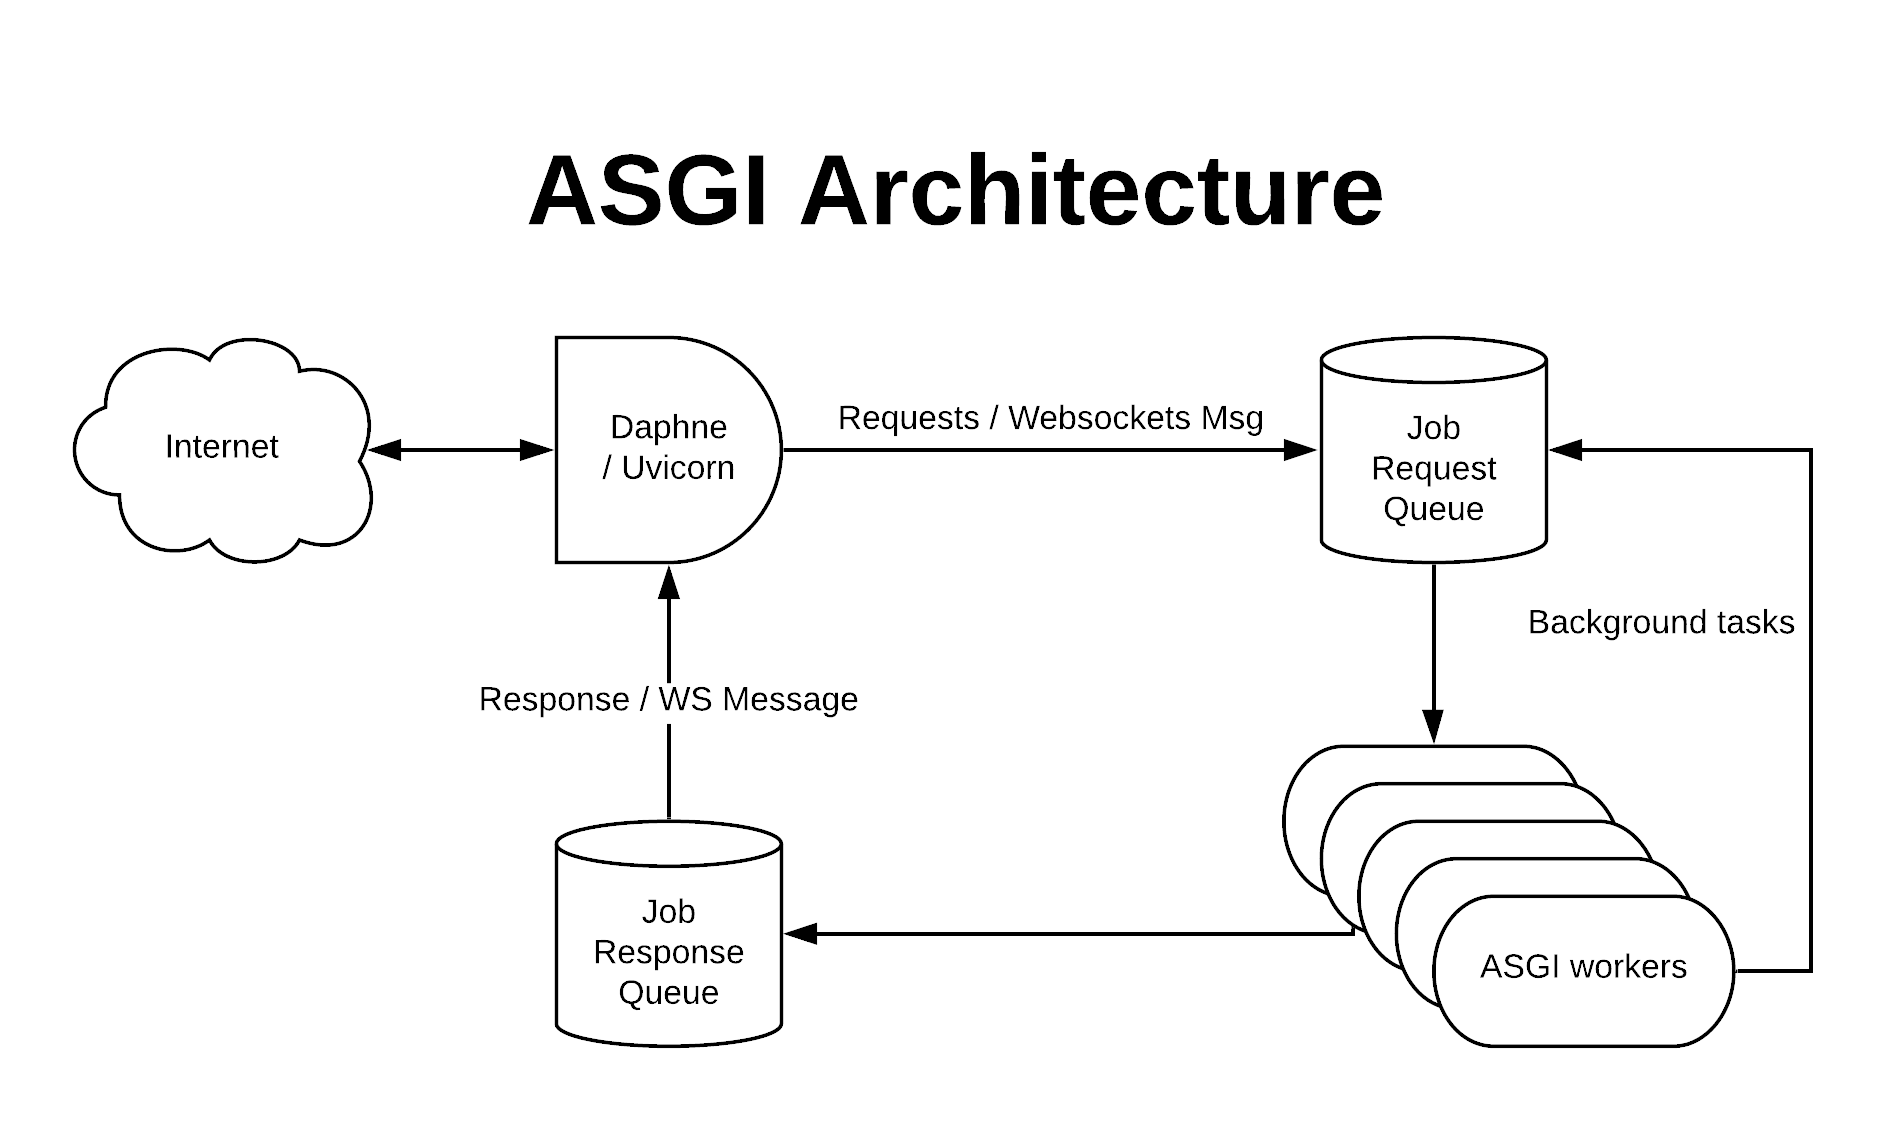
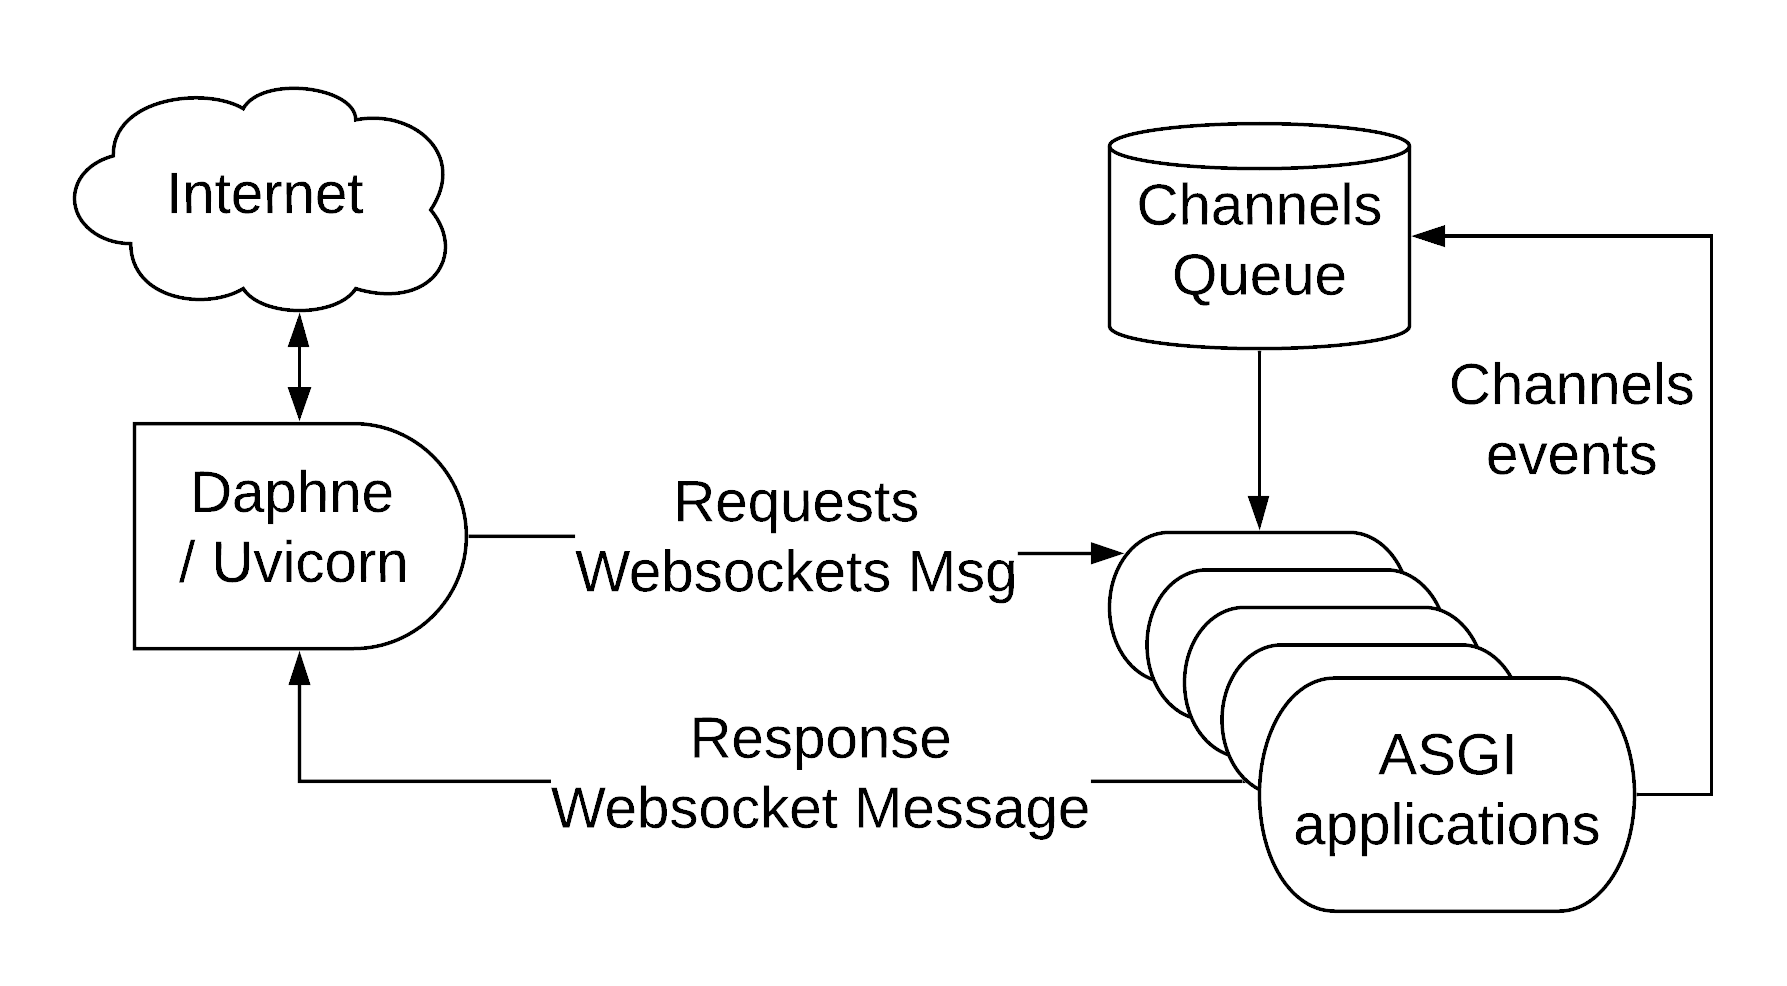
Add a sequence diagram.

diff --git a/fosdem-asgi/index.html b/fosdem-asgi/index.html
@@ -292,9 +292,10 @@ async def application(scope, receive, send):
 <template layout="title" type="text/x-markdown"
           backface="./images/cover-no-logo.png">
 
-![ASGI Architecture](./images/asgi.png)
+![ASGI Sequence](./images/sequence-asgi.png)
 
 </template>
+
 
 <template layout="bullets" type="text/x-markdown"
           backface="./images/cover-no-logo.png">
@@ -307,6 +308,17 @@ async def application(scope, receive, send):
 - A HTTP request is just another kind of event.
 - You can use workers for async background tasks as well.
 </template>
+
+
+<template layout="title" type="text/x-markdown"
+          backface="./images/cover-no-logo.png">
+
+## Channel architecture
+    
+![ASGI Architecture](./images/asgi.png)
+
+</template>
+
 
 <template layout="bullets" type="text/x-markdown"
           backface="./images/cover-no-logo.png">

diff --git a/fosdem-asgi/demo/demo/routing.py b/fosdem-asgi/demo/demo/routing.py
@@ -7,7 +7,7 @@ import thumbnails.consumers as thumbnails_consumers
 
 
 application = ProtocolTypeRouter({
-    # Empty for now (http->django views is added by default)
+    # http->django views is added by default
     'websocket': AllowedHostsOriginValidator(
         AuthMiddlewareStack(
             URLRouter(
